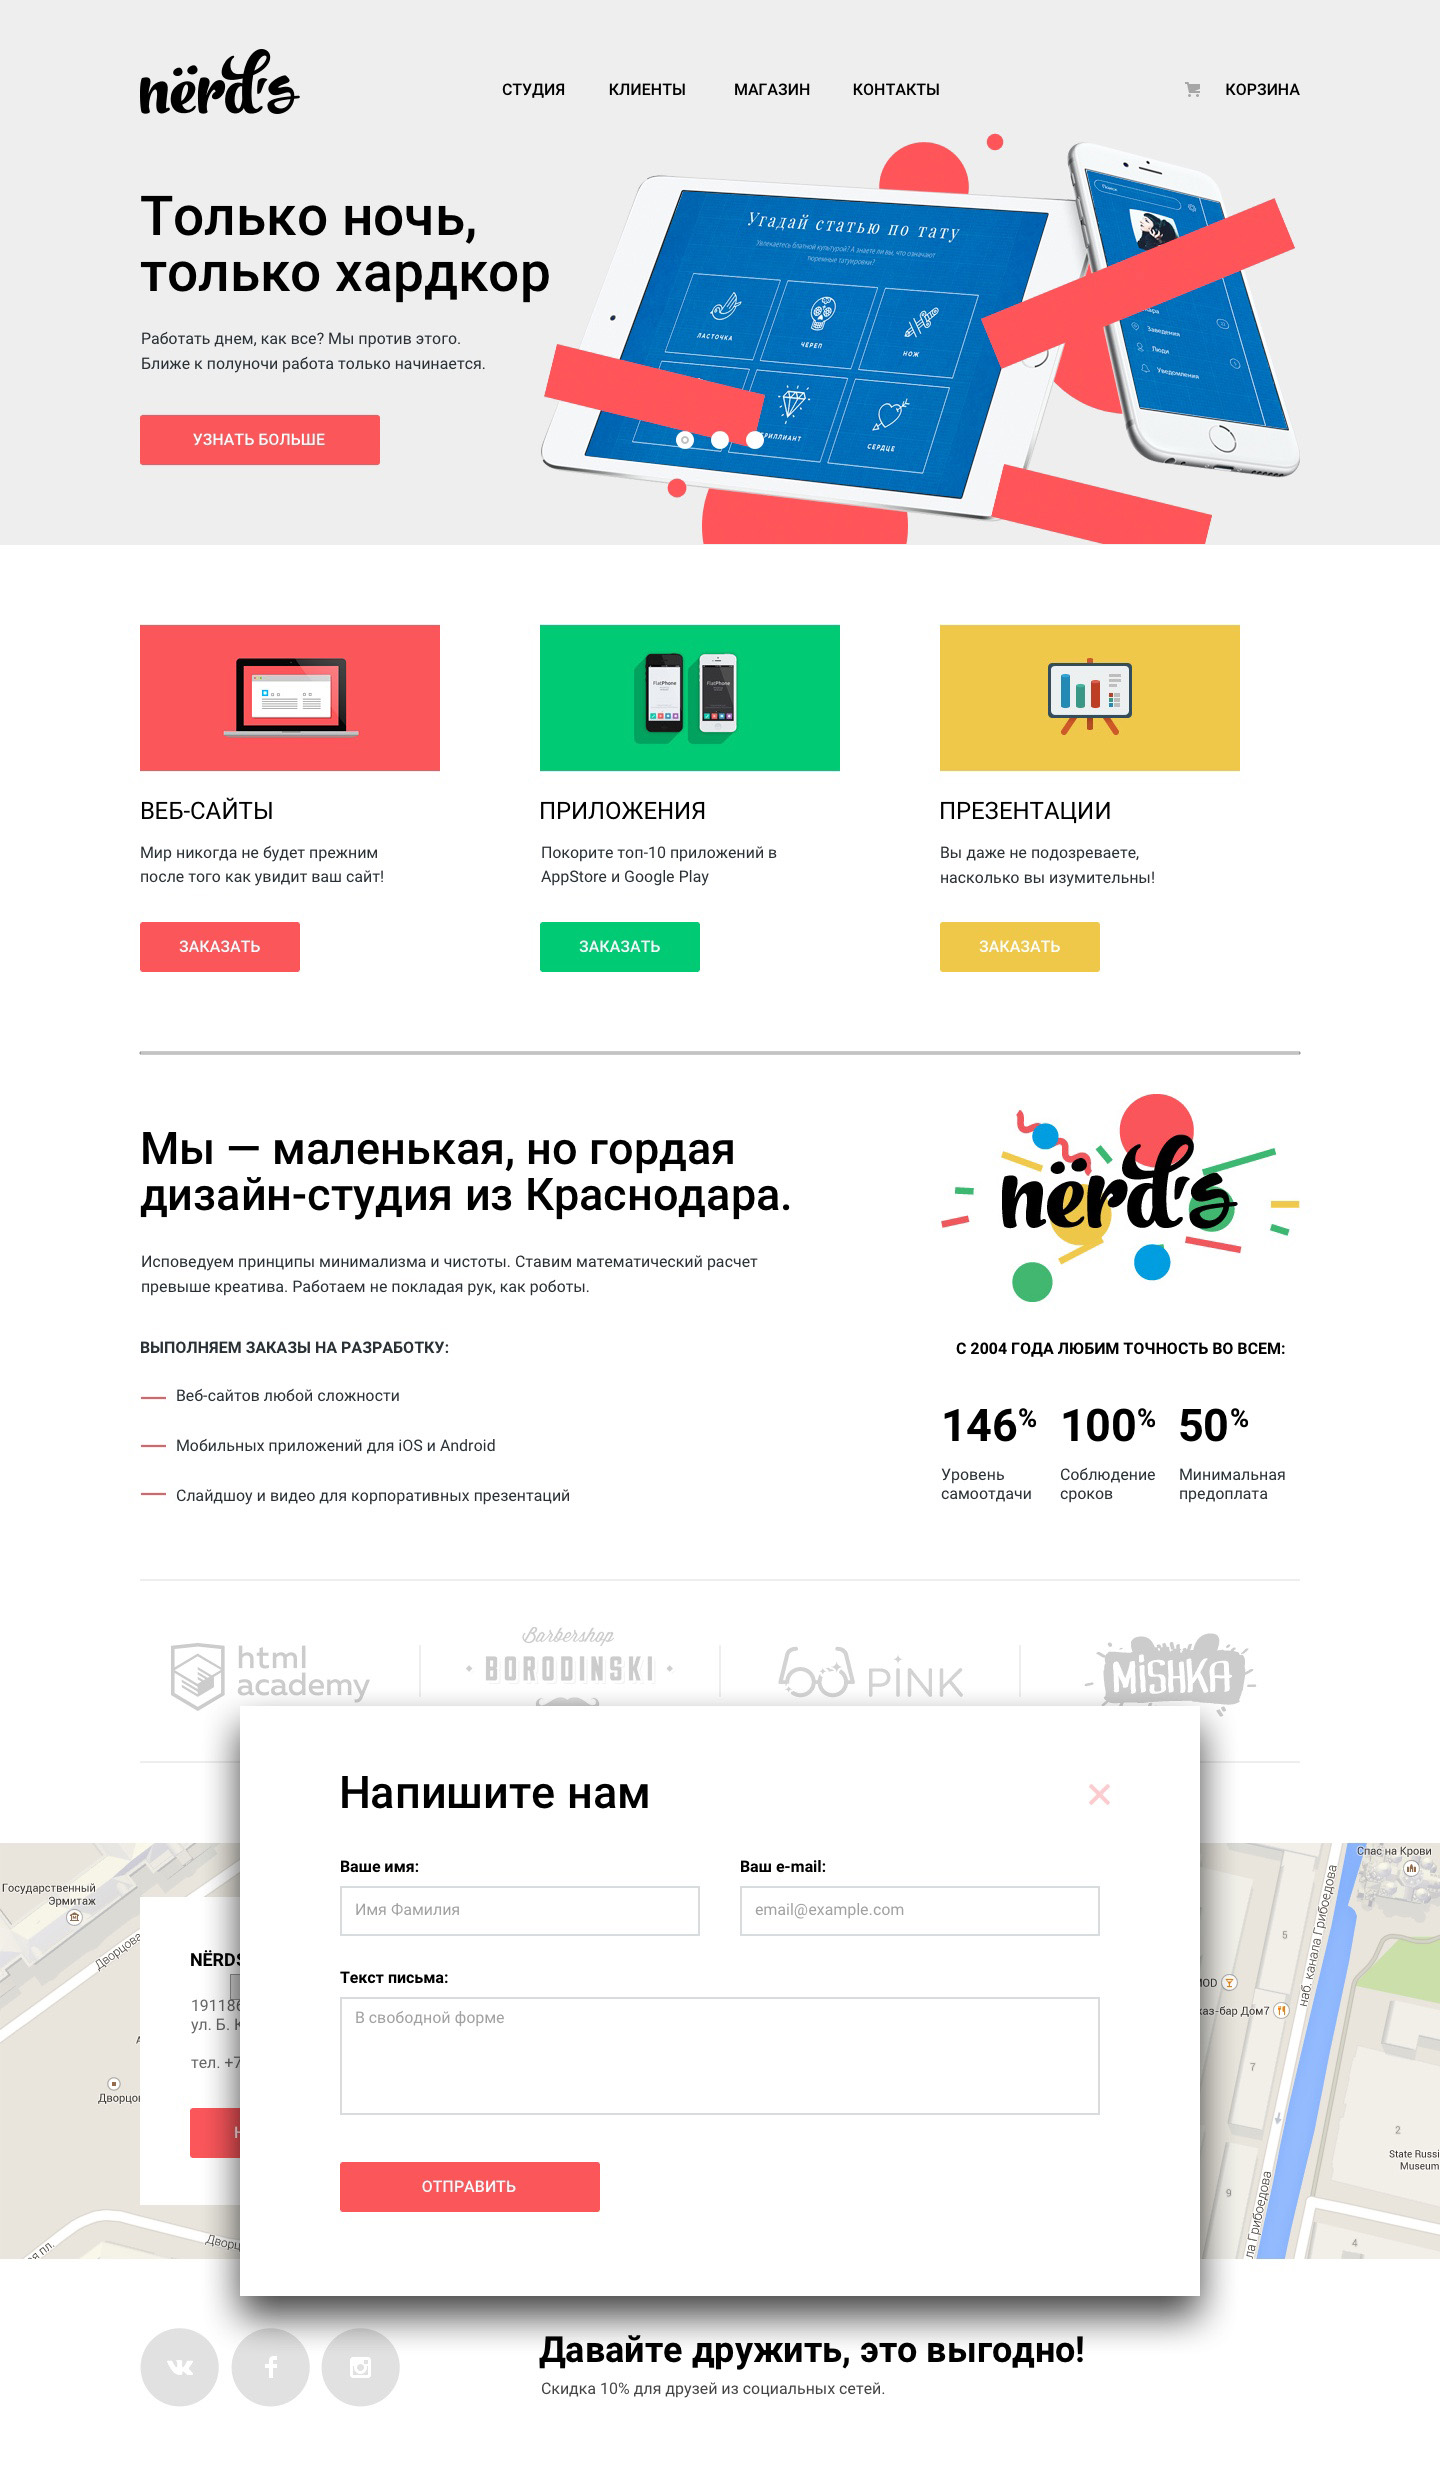
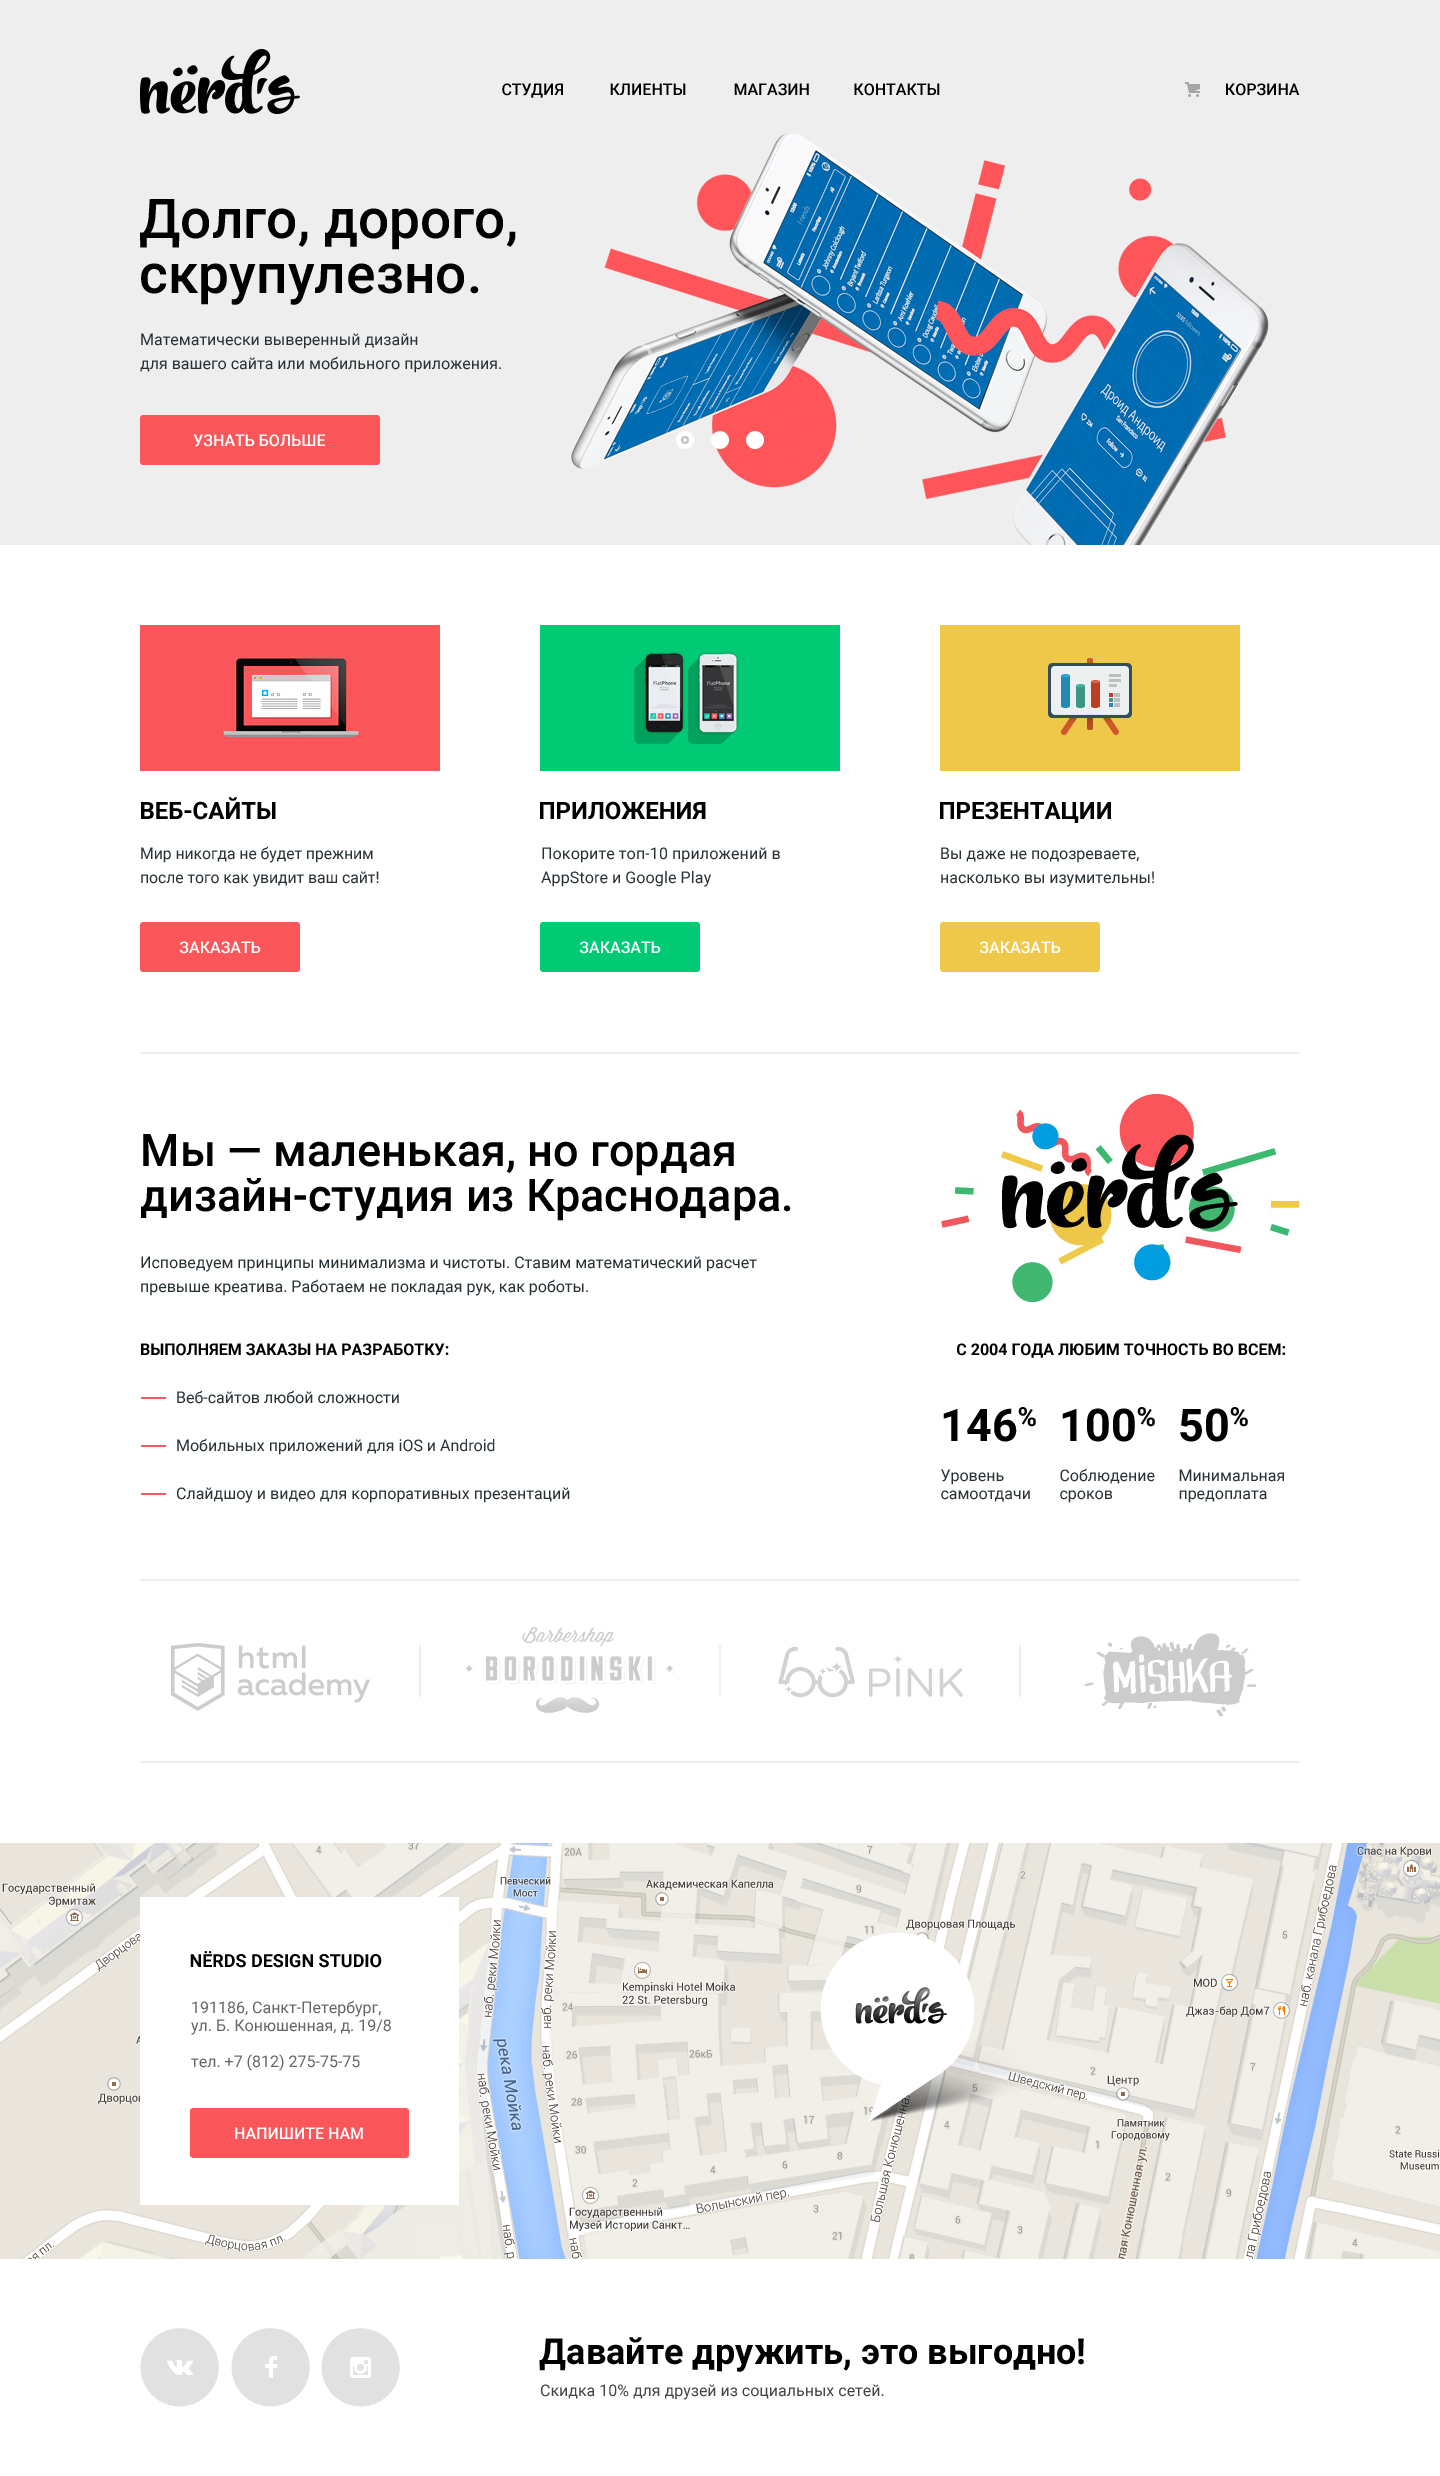
Add brands

diff --git a/index.html b/index.html
@@ -6,7 +6,7 @@
     <link href="https://fonts.googleapis.com/css?family=Roboto:400,500,700&amp;subset=cyrillic" rel="stylesheet">
     <link href="css/normalize.css" rel="stylesheet">
     <link href="css/style.css" rel="stylesheet">
-    <!--<link href="css/grid.css" rel="stylesheet">-->
+<!--    <link href="css/grid.css" rel="stylesheet">-->
 </head>
 <body>
 <header class="header-wrapper">
@@ -57,6 +57,12 @@
     </section>
     <section class="main-brands">
         <h2 class="visually-hidden">Наши клиенты</h2>
+        <ul>
+            <li><a href="https://htmlacademy.ru/intensive/htmlcss"><img src="img/logo-html-academy.png" width="199" height="68" alt="Логотип HTML Academy"></a></li>
+            <li><a href="#"><img src="img/logo-barbershop.png" width="209" height="90" alt="Логотип Barbershop Borodinsky"></a></li>
+            <li><a href="#"><img src="img/logo-pink.png" width="185" height="52" alt="Логотип Pink"></a></li>
+            <li><a href="#"><img src="img/logo-mishka.png" width="173" height="84" alt="Логотип Mishka"></a></li>
+        </ul>
     </section>
         <section class="modal">
             <h2>Напишите нам</h2>

diff --git a/css/style.css b/css/style.css
@@ -294,13 +294,54 @@ input[type="radio"].visually-hidden {
 }
 
 .main-brands {
+    padding-top: 40px;
+    padding-bottom: 40px;
     margin-bottom: 80px;
-    /* Временно для сетки */
-    min-height: 176px;
     border-top: 2px solid #979797;
     border-bottom: 2px solid #979797;
-
 }
+
+.main-brands ul {
+    display: flex;
+    margin: 0;
+    padding: 0;
+    list-style: none;
+}
+
+.main-brands li {
+    width: 298px;
+}
+
+.main-brands li {
+    position: relative;
+    display: flex;
+    justify-content: center;
+    align-self: center;
+}
+
+.main-brands li:not(:last-child):after {
+    position: absolute;
+    top: 15px;
+    right: 5px;
+    content: "";
+    width: 2px;
+    height: 52px;
+    background: #979797;
+}
+
+.main-brands a {
+    opacity: 0.2;
+}
+
+.main-brands a:hover,
+.main-brands a:focus {
+    opacity: 1;
+}
+
+.main-brands a:active {
+    opacity: 0.2;
+}
+
 
 .map-wrapper {
     /*    min-height: 419px;
@@ -831,6 +872,7 @@ input[type="radio"].visually-hidden {
 /* Modal-form */
 
 .modal {
+    display: none;
     box-sizing: border-box;
     position: fixed;
     bottom: 180px;

diff --git a/css/grid.css b/css/grid.css
@@ -2,7 +2,7 @@
 
 body {
     /* Раскомментировать для index.html */
-    /*background-image: url('../img/nerds-index-grid.jpg');*/
+    background-image: url('../img/nerds-index-grid.jpg');
 
     /* Раскомментировать для shop.html */
     /*background-image: url('../img/nerds-shop-grid.jpg');*/
